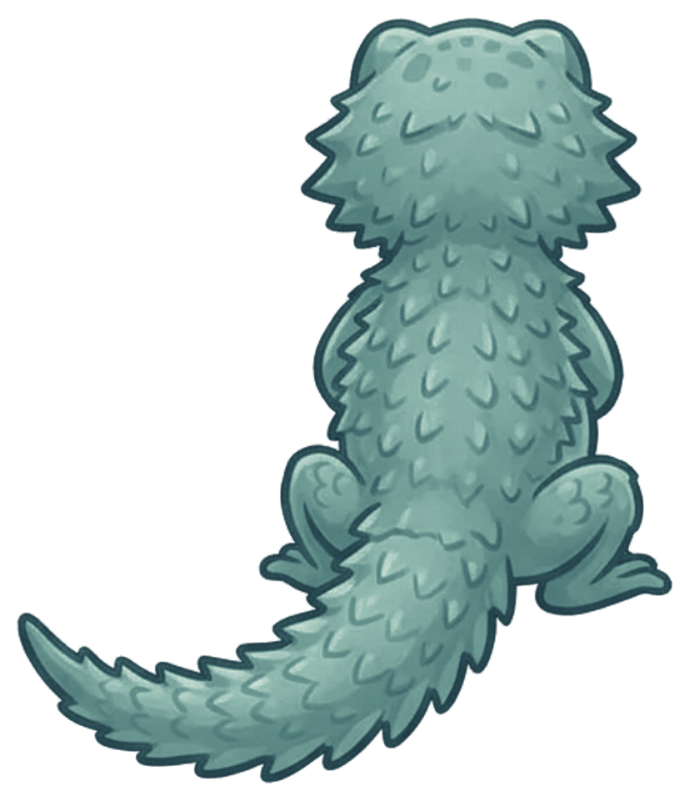
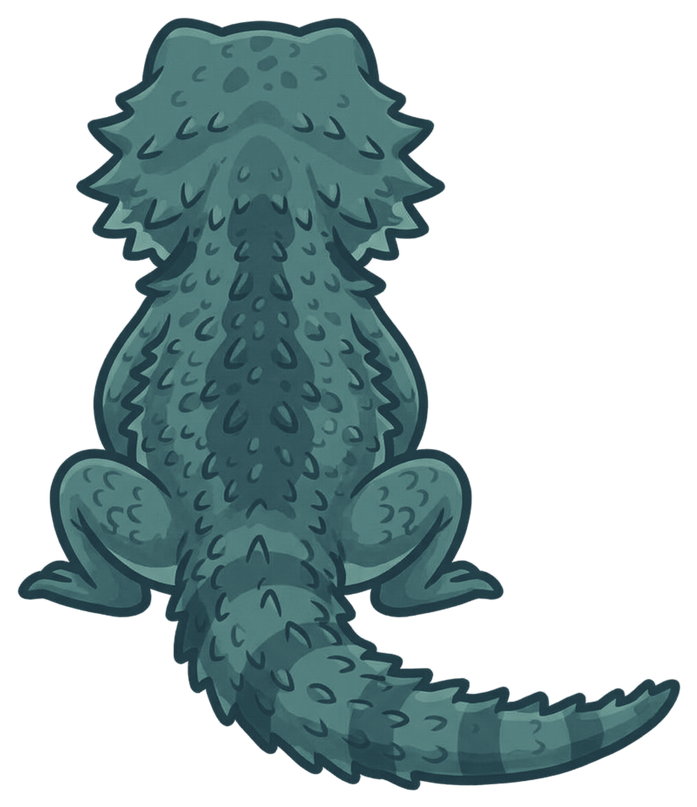
Background agents: work in progress
Claude-Session: https://claude.ai/code/session_017vcscXTweEdXk7zMTDrzTD

diff --git a/production/workspace/explained2/p4ep01v2/spr/manifest.js b/production/workspace/explained2/p4ep01v2/spr/manifest.js
@@ -1,1 +1,1 @@
-window.SPR={"pip_sit_closed": {"file": "spr/pip_sit_closed.png", "w": 900, "h": 672, "ax": 517.5, "ay": 639.8, "bh": 606.8}, "pip_sit_half": {"file": "spr/pip_sit_half.png", "w": 900, "h": 672, "ax": 517.5, "ay": 639.8, "bh": 606.8}, "pip_sit_wide": {"file": "spr/pip_sit_wide.png", "w": 900, "h": 672, "ax": 517.5, "ay": 639.8, "bh": 606.8}, "pip_sit_blink": {"file": "spr/pip_sit_blink.png", "w": 900, "h": 672, "ax": 517.5, "ay": 639.8, "bh": 606.8}, "pip_sit_half_blink": {"file": "spr/pip_sit_half_blink.png", "w": 900, "h": 672, "ax": 517.5, "ay": 639.8, "bh": 606.8}, "pip_sit_wide_blink": {"file": "spr/pip_sit_wide_blink.png", "w": 900, "h": 672, "ax": 517.5, "ay": 639.8, "bh": 606.8}, "basil_sit_closed": {"file": "spr/basil_sit_closed.png", "w": 768, "h": 768, "ax": 423.8, "ay": 683.2, "bh": 593.2}, "basil_sit_half": {"file": "spr/basil_sit_half.png", "w": 768, "h": 768, "ax": 423.8, "ay": 683.2, "bh": 593.2}, "basil_sit_wide": {"file": "spr/basil_sit_wide.png", "w": 768, "h": 768, "ax": 423.8, "ay": 683.2, "bh": 593.2}, "basil_sit_blink": {"file": "spr/basil_sit_blink.png", "w": 768, "h": 768, "ax": 423.8, "ay": 683.2, "bh": 593.2}, "basil_sit_half_blink": {"file": "spr/basil_sit_half_blink.png", "w": 768, "h": 768, "ax": 423.8, "ay": 683.2, "bh": 593.2}, "basil_sit_wide_blink": {"file": "spr/basil_sit_wide_blink.png", "w": 768, "h": 768, "ax": 423.8, "ay": 683.2, "bh": 593.2}, "momo_sit_closed": {"file": "spr/momo_sit_closed.png", "w": 768, "h": 768, "ax": 488.2, "ay": 633.8, "bh": 605.2}, "momo_sit_half": {"file": "spr/momo_sit_half.png", "w": 768, "h": 768, "ax": 488.2, "ay": 633.8, "bh": 605.2}, "momo_sit_wide": {"file": "spr/momo_sit_wide.png", "w": 768, "h": 768, "ax": 488.2, "ay": 633.8, "bh": 605.2}, "momo_sit_blink": {"file": "spr/momo_sit_blink.png", "w": 768, "h": 768, "ax": 488.2, "ay": 633.8, "bh": 605.2}, "momo_sit_half_blink": {"file": "spr/momo_sit_half_blink.png", "w": 768, "h": 768, "ax": 488.2, "ay": 633.8, "bh": 605.2}, "momo_sit_wide_blink": {"file": "spr/momo_sit_wide_blink.png", "w": 768, "h": 768, "ax": 488.2, "ay": 633.8, "bh": 605.2}, "pip_cheer": {"file": "spr/pip_cheer.png", "w": 648, "h": 643, "ax": 360.9, "ay": 624.8, "bh": 606.8}, "pip_oops": {"file": "spr/pip_oops.png", "w": 570, "h": 643, "ax": 349.6, "ay": 624.8, "bh": 606.8}, "pip_thinking": {"file": "spr/pip_thinking.png", "w": 558, "h": 643, "ax": 358.0, "ay": 624.8, "bh": 606.8}, "pip_surprised": {"file": "spr/pip_surprised.png", "w": 529, "h": 643, "ax": 337.1, "ay": 624.8, "bh": 606.8}, "pip_arms_crossed": {"file": "spr/pip_arms_crossed.png", "w": 558, "h": 643, "ax": 357.5, "ay": 624.8, "bh": 606.8}, "pip_waving": {"file": "spr/pip_waving.png", "w": 503, "h": 643, "ax": 249.1, "ay": 624.8, "bh": 606.8}, "pip_pointing": {"file": "spr/pip_pointing.png", "w": 586, "h": 642, "ax": 333.2, "ay": 624.8, "bh": 606.8}, "basil_oops": {"file": "spr/basil_oops.png", "w": 578, "h": 629, "ax": 337.0, "ay": 611.2, "bh": 593.2}, "basil_waving": {"file": "spr/basil_waving.png", "w": 628, "h": 629, "ax": 337.0, "ay": 611.2, "bh": 593.2}, "basil_thinking": {"file": "spr/basil_thinking.png", "w": 578, "h": 629, "ax": 343.7, "ay": 611.2, "bh": 593.2}, "basil_worried": {"file": "spr/basil_worried.png", "w": 578, "h": 629, "ax": 343.7, "ay": 611.2, "bh": 593.2}, "basil_surprised": {"file": "spr/basil_surprised.png", "w": 612, "h": 629, "ax": 338.5, "ay": 611.2, "bh": 593.2}, "basil_pointing": {"file": "spr/basil_pointing.png", "w": 626, "h": 629, "ax": 337.0, "ay": 611.2, "bh": 593.2}, "basil_cheer": {"file": "spr/basil_cheer.png", "w": 626, "h": 629, "ax": 257.0, "ay": 611.2, "bh": 593.2}, "basil_arms_crossed": {"file": "spr/basil_arms_crossed.png", "w": 578, "h": 629, "ax": 343.4, "ay": 611.2, "bh": 593.2}, "basil_laughing": {"file": "spr/basil_laughing.png", "w": 577, "h": 629, "ax": 344.0, "ay": 611.2, "bh": 593.2}, "momo_oops": {"file": "spr/momo_oops.png", "w": 495, "h": 641, "ax": 265.8, "ay": 623.2, "bh": 605.2}, "momo_waving": {"file": "spr/momo_waving.png", "w": 524, "h": 641, "ax": 264.9, "ay": 623.2, "bh": 605.2}, "momo_thinking": {"file": "spr/momo_thinking.png", "w": 474, "h": 641, "ax": 267.1, "ay": 623.2, "bh": 605.2}, "momo_surprised": {"file": "spr/momo_surprised.png", "w": 474, "h": 641, "ax": 267.1, "ay": 623.2, "bh": 605.2}, "momo_cheer": {"file": "spr/momo_cheer.png", "w": 521, "h": 641, "ax": 264.7, "ay": 623.2, "bh": 605.2}, "momo_pointing": {"file": "spr/momo_pointing.png", "w": 536, "h": 641, "ax": 264.7, "ay": 623.2, "bh": 605.2}, "momo_arms_crossed": {"file": "spr/momo_arms_crossed.png", "w": 499, "h": 641, "ax": 317.9, "ay": 623.2, "bh": 605.2}, "basil_back": {"file": "spr/basil_back.png", "w": 689, "h": 799, "ax": 471.7, "ay": 611.2, "bh": 593.2}};
+window.SPR={"pip_sit_closed": {"file": "spr/pip_sit_closed.png", "w": 900, "h": 672, "ax": 517.5, "ay": 639.8, "bh": 606.8}, "pip_sit_half": {"file": "spr/pip_sit_half.png", "w": 900, "h": 672, "ax": 517.5, "ay": 639.8, "bh": 606.8}, "pip_sit_wide": {"file": "spr/pip_sit_wide.png", "w": 900, "h": 672, "ax": 517.5, "ay": 639.8, "bh": 606.8}, "pip_sit_blink": {"file": "spr/pip_sit_blink.png", "w": 900, "h": 672, "ax": 517.5, "ay": 639.8, "bh": 606.8}, "pip_sit_half_blink": {"file": "spr/pip_sit_half_blink.png", "w": 900, "h": 672, "ax": 517.5, "ay": 639.8, "bh": 606.8}, "pip_sit_wide_blink": {"file": "spr/pip_sit_wide_blink.png", "w": 900, "h": 672, "ax": 517.5, "ay": 639.8, "bh": 606.8}, "basil_sit_closed": {"file": "spr/basil_sit_closed.png", "w": 768, "h": 768, "ax": 423.8, "ay": 683.2, "bh": 593.2}, "basil_sit_half": {"file": "spr/basil_sit_half.png", "w": 768, "h": 768, "ax": 423.8, "ay": 683.2, "bh": 593.2}, "basil_sit_wide": {"file": "spr/basil_sit_wide.png", "w": 768, "h": 768, "ax": 423.8, "ay": 683.2, "bh": 593.2}, "basil_sit_blink": {"file": "spr/basil_sit_blink.png", "w": 768, "h": 768, "ax": 423.8, "ay": 683.2, "bh": 593.2}, "basil_sit_half_blink": {"file": "spr/basil_sit_half_blink.png", "w": 768, "h": 768, "ax": 423.8, "ay": 683.2, "bh": 593.2}, "basil_sit_wide_blink": {"file": "spr/basil_sit_wide_blink.png", "w": 768, "h": 768, "ax": 423.8, "ay": 683.2, "bh": 593.2}, "momo_sit_closed": {"file": "spr/momo_sit_closed.png", "w": 768, "h": 768, "ax": 488.2, "ay": 633.8, "bh": 605.2}, "momo_sit_half": {"file": "spr/momo_sit_half.png", "w": 768, "h": 768, "ax": 488.2, "ay": 633.8, "bh": 605.2}, "momo_sit_wide": {"file": "spr/momo_sit_wide.png", "w": 768, "h": 768, "ax": 488.2, "ay": 633.8, "bh": 605.2}, "momo_sit_blink": {"file": "spr/momo_sit_blink.png", "w": 768, "h": 768, "ax": 488.2, "ay": 633.8, "bh": 605.2}, "momo_sit_half_blink": {"file": "spr/momo_sit_half_blink.png", "w": 768, "h": 768, "ax": 488.2, "ay": 633.8, "bh": 605.2}, "momo_sit_wide_blink": {"file": "spr/momo_sit_wide_blink.png", "w": 768, "h": 768, "ax": 488.2, "ay": 633.8, "bh": 605.2}, "pip_cheer": {"file": "spr/pip_cheer.png", "w": 648, "h": 643, "ax": 360.9, "ay": 624.8, "bh": 606.8}, "pip_oops": {"file": "spr/pip_oops.png", "w": 570, "h": 643, "ax": 349.6, "ay": 624.8, "bh": 606.8}, "pip_thinking": {"file": "spr/pip_thinking.png", "w": 558, "h": 643, "ax": 358.0, "ay": 624.8, "bh": 606.8}, "pip_surprised": {"file": "spr/pip_surprised.png", "w": 529, "h": 643, "ax": 337.1, "ay": 624.8, "bh": 606.8}, "pip_arms_crossed": {"file": "spr/pip_arms_crossed.png", "w": 558, "h": 643, "ax": 357.5, "ay": 624.8, "bh": 606.8}, "pip_waving": {"file": "spr/pip_waving.png", "w": 503, "h": 643, "ax": 249.1, "ay": 624.8, "bh": 606.8}, "pip_pointing": {"file": "spr/pip_pointing.png", "w": 586, "h": 642, "ax": 333.2, "ay": 624.8, "bh": 606.8}, "basil_oops": {"file": "spr/basil_oops.png", "w": 578, "h": 629, "ax": 337.0, "ay": 611.2, "bh": 593.2}, "basil_waving": {"file": "spr/basil_waving.png", "w": 628, "h": 629, "ax": 337.0, "ay": 611.2, "bh": 593.2}, "basil_thinking": {"file": "spr/basil_thinking.png", "w": 578, "h": 629, "ax": 343.7, "ay": 611.2, "bh": 593.2}, "basil_worried": {"file": "spr/basil_worried.png", "w": 578, "h": 629, "ax": 343.7, "ay": 611.2, "bh": 593.2}, "basil_surprised": {"file": "spr/basil_surprised.png", "w": 612, "h": 629, "ax": 338.5, "ay": 611.2, "bh": 593.2}, "basil_pointing": {"file": "spr/basil_pointing.png", "w": 626, "h": 629, "ax": 337.0, "ay": 611.2, "bh": 593.2}, "basil_cheer": {"file": "spr/basil_cheer.png", "w": 626, "h": 629, "ax": 257.0, "ay": 611.2, "bh": 593.2}, "basil_arms_crossed": {"file": "spr/basil_arms_crossed.png", "w": 578, "h": 629, "ax": 343.4, "ay": 611.2, "bh": 593.2}, "basil_laughing": {"file": "spr/basil_laughing.png", "w": 577, "h": 629, "ax": 344.0, "ay": 611.2, "bh": 593.2}, "momo_oops": {"file": "spr/momo_oops.png", "w": 495, "h": 641, "ax": 265.8, "ay": 623.2, "bh": 605.2}, "momo_waving": {"file": "spr/momo_waving.png", "w": 524, "h": 641, "ax": 264.9, "ay": 623.2, "bh": 605.2}, "momo_thinking": {"file": "spr/momo_thinking.png", "w": 474, "h": 641, "ax": 267.1, "ay": 623.2, "bh": 605.2}, "momo_surprised": {"file": "spr/momo_surprised.png", "w": 474, "h": 641, "ax": 267.1, "ay": 623.2, "bh": 605.2}, "momo_cheer": {"file": "spr/momo_cheer.png", "w": 521, "h": 641, "ax": 264.7, "ay": 623.2, "bh": 605.2}, "momo_pointing": {"file": "spr/momo_pointing.png", "w": 536, "h": 641, "ax": 264.7, "ay": 623.2, "bh": 605.2}, "momo_arms_crossed": {"file": "spr/momo_arms_crossed.png", "w": 499, "h": 641, "ax": 317.9, "ay": 623.2, "bh": 605.2}, "basil_back": {"file": "spr/basil_back.png", "w": 697, "h": 807, "ax": 264.8, "ay": 611.2, "bh": 593.2}};

diff --git a/production/workspace/explained2/p4ep01v2/p3.js b/production/workspace/explained2/p4ep01v2/p3.js
@@ -80,8 +80,8 @@ SC.shrink = (t, s) => { const a = LT("j902"), sh = a + (t - a) > a ? 0 : 0, S_ =
   for (let i = 0; i < 18; i++) { const an = rw + i * Math.PI / 9; wheel += `<path d="M0 0 L${n2(1880 * Math.cos(an))} ${n2(1880 * Math.sin(an))}" stroke="#8C96A2" stroke-width="16"/>`; }
   const world = `<rect x="-6000" y="-6000" width="14000" height="12000" fill="#1E2430"/><rect x="-6000" y="-6000" width="14000" height="12000" fill="url(#rimLight)" opacity=".5"/>` + OP(.85, wheel) + W_.s + x2youLink(t, you);
   const rider = (who, kk) => { const q = JLOOP.at(-kk * JW.pitch + S_ + JW.pitch / 2), [X, Y] = camPt(c, [q.x, q.y - 60]), left = q.seg === "bottom";
-    return bd2(who, X, Y, 170 * c[0], t, { in: s.t0 + .8 + kk * .15, pose: who === "basil" ? "back" : undefined, poses: who === "momo" ? [[0, "sit"], [MK("wave"), "waving"], [MK("wave") + 1.0, "sit"]] : [[0, who === "basil" ? "back" : "sit"]], flip: who === "pip" ? !left : left, look: left ? -6 : 6, tag: false, shadow: false, noreact: true }); };
-  const riders = c[0] > .5 ? rider("pip", 1.2) + rider("momo", 2.5) + rider("basil", 3.8) : "";
+    return bd2(who, X, Y, 170 * c[0], t, { in: s.t0 + .8 + kk * .15, out: MK("jtug") - .5 + kk * .05, pose: who === "basil" ? "back" : undefined, poses: who === "momo" ? [[0, "sit"], [MK("wave"), "waving"], [MK("wave") + 1.0, "sit"]] : [[0, who === "basil" ? "back" : "sit"]], flip: who === "pip" ? !left : left, look: left ? -6 : 6, tag: false, shadow: false, noreact: true }); };
+  const riders = c[0] > .5 ? rider("pip", 1.1) + rider("momo", 2.1) + rider("basil", 3.0) : "";
   const [yx, yy] = camPt(c, [you.x, you.y]);
   return OP(ramp(t, s.t0, 1.0), CAM(world, c[0], c[1], c[2]) + riders
     + youTag(t, s.t0 + .6, "You: one link of a bike chain") + TF(yx, yy - 120 * c[0] - 20, spring(t, s.t0 + .8, .45) * (zo > .3 ? 1.1 : .9), youPill(0, 0, 1))
@@ -192,7 +192,7 @@ function x2bellClose(t, t0, t1, ring, heart, on) { if (t < t0 - .25) return ""; 
 // Basil finishes it: SYSTEM (all three cheer: each learnt it); card 2 stamped READY TO RIDE!; then THE BATTLE CRY TURNED ROUND: all three
 // strike the heroic pose together, ALL PARTS, WORKING TOGETHER! (no wobble; the sting resolves this time)
 SC.system = (t, s) => { const c = camOn([960, 720], 1.0 + .08 * eio(clamp((t - s.t0) / 8)), 960, 600), tK = MK("kw_system"), tc = MK("cry4"), lit = ramp(t, LT("v1010") + .4, .5);
-  window._BUBAT = { pip: [480, 330], momo: [1420, 330], basil: [820, 300] };
+  window._BUBAT = { pip: [480, 330], momo: [1420, 330], basil: [1180, 420] };
   x2said("v1013");
   return x2place("vdv2", TF(1130, 990, .74, bikeP4(t, { chain: 1, brakes: 1, bell: 1, crank: .6, lit: lit * .8 })), c)
     + x2bc(c, "pip", 360, 1076, 380, t, { in: s.t0 - .5, poses: [[0, "sit"], [LE("v1010") + .05, "pointing"], [tK + .05, "cheer"], [tK + 2.0, "sit"], [tc - .05, "hero/arms_crossed"]], look: 8 })
@@ -249,7 +249,7 @@ const treeCam2 = (t) => camMix(camOn([960, 860], 1.18, 960, 700), camOn([960, 56
 SC.tree = (t, s) => { const c = treeCam2(t), tl = (mk, txt, x, y, px, py) => t >= MK(mk) - .1 ? OP(spring(t, MK(mk) - .1, .4), plabel(x, y, txt, ...camPt(c, [px, py]), 44, "#fff")) : "";
   window._BUBAT = { pip: [1240, 460] };
   return x2place("rtp4", TF(1110, 1050, .55, bikeP4(t, { chain: 1, crank: .6, sh: 0, brakes: 1, bell: 1 })), c)
-    + x2bc(c, "pip", 1450, 1062, 380, t, { in: s.t0 - .5, flip: true, poses: [[0, "sit"], [LT("e1103") + .3, "pointing"], [LE("e1103") + .1, "sit"]], look: -4 }) + x2bc(c, "momo", 380, 1062, 340, t, { in: s.t0 - .5, ...watchO(380, 960), poses: [[0, "sit"]] }) + x2bc(c, "basil", 1740, 1062, 380, t, { in: s.t0 - .5, ...watchO(1740, 960), poses: [[0, "sit"]], ...x2grease(t) })
+    + x2bc(c, "pip", 1400, 1062, 380, t, { in: s.t0 - .5, flip: true, poses: [[0, "sit"], [LT("e1103") + .3, "pointing"], [LE("e1103") + .1, "sit"]], look: -4 }) + x2bc(c, "momo", 380, 1062, 340, t, { in: s.t0 - .5, ...watchO(380, 960), poses: [[0, "sit"]] }) + x2bc(c, "basil", 1800, 1062, 380, t, { in: s.t0 - .5, ...watchO(1800, 960), poses: [[0, "sit"]], ...x2grease(t) })
     + tl("rts", "roots", 640, 780, 830, 785) + tl("stm", "stem (trunk)", 640, 560, 935, 560) + tl("lv", "leaves", 1240, 250, 1260, 230) + x2HUD(t); };
 
 /* ================================================================ WORDS · THE WORDS THAT EARN MARKS ================================================================ */

diff --git a/production/workspace/explained2/p4ep01v2/p2.js b/production/workspace/explained2/p4ep01v2/p2.js
@@ -75,7 +75,7 @@ function x2bellFront(t, s) { const tB = MK("flap") + 1.0, c = camMix(camOn([1000
     + x2bc(c, "basil", ...B, t, { in: tB - .02, noStay: true, poses: [[0, "shocked/surprised"], [LT("b407") + .4, "deadpan"]], look: 2, noreact: true })
     + pgOn("basil", 70, -110, .85, true, 1) + pgOn("basil", -150, -40, .8, false, 2) + helmPig
     + comicWord(t, coo, ...camPt(c, [B[0] + 40, B[1] - 520]), "coo.", { size: 40, tiny: true, col: "#fff", d: .7 })
-    + (true ? x2bc(c, "momo", jog(1600, 1420, LT("b407") - .2), 1066, 360, t, { in: tB - 3, noStay: true, flip: true, poses: [[0, "sit"], [LT("b407") + .9, "laugh/cheer"], [LE("b407") + .2, "sit"]], look: -6 }) : "")
+    + (true ? x2bc(c, "momo", jog(1520, 1400, LT("b407") - .2), 1066, 360, t, { in: tB - 3, noStay: true, flip: true, poses: [[0, "sit"], [LT("b407") + .9, "laugh/cheer"], [LE("b407") + .2, "sit"]], look: -6 }) : "")
     + (true ? x2bc(c, "pip", jog(1880, 1780, LT("b407")), 1066, 350, t, { in: tB - 3, noStay: true, flip: true, poses: [[0, "sit"], [LT("b408") + .5, "embarrassed/oops"], [LE("b408") + .4, "sit"]], look: -6 }) : "")
     + faceCam("basil", t, tB + .05, tB + 1.5, 1520, 300, 150, [[0, "shocked/surprised"]], { flip: true, noreact: true })
     + x2lab(t, MK("warn"), s.t1, c, "bell: warns people you are coming", 1380, 200, BELC[0] + BLK * (BK.HT[0] - 24), BELC[1] + BLK * (BK.HT[1] - 66), 38)
@@ -223,11 +223,11 @@ function x2runD(t, s) { const tD = LT("k611") - .15, tP = MK("push"), tBk = MK("
   const front = CAM(TF(boxX, CB.box[1], 1, iceBoxFrontV2(t)), c[0], c[1], c[2]);
   const splashFx = inBox && t < tSp + 1.0 ? [...Array(12)].map((_, i) => { const v = clamp((t - tSp) / .8), an = -Math.PI / 2 + (i - 5.5) * .25, r = 260 * v; return `<rect x="-12" y="-10" width="24" height="20" rx="5" fill="#fff" stroke="#9FD0EA" stroke-width="2.5" transform="translate(${n2(CB.box[0] + Math.cos(an) * r)} ${n2(880 + Math.sin(an) * r + 300 * v * v)}) rotate(${n2(i * 40 + v * 200)})" opacity="${n2(1 - v)}"/>`; }).join("") : "";
   // Momo and Pip slide the box in (from the right), then stand by it
-  const mX = t < tP + .4 ? lerp(1700, CB.box[0] + 300, eio(clamp((t - tD) / 1.0))) : CB.box[0] + 300, pX = lerp(1900, CB.box[0] + 580, eio(clamp((t - tD - .1) / 1.1)));
+  const mX = t < tP + .4 ? lerp(1700, CB.box[0] + 300, eio(clamp((t - tD) / 1.0))) : CB.box[0] + 300, pX = lerp(1920, CB.box[0] + 625, eio(clamp((t - tD - .1) / 1.1)));
   window._BUBAT = { momo: [1400, 330], pip: [1500, 300], basil: [1180, 320] };
   return CAM(bg("vdv2") + set + bike, c[0], c[1], c[2]) + basil + can + front + splashFx
     + x2bc(c, "momo", mX, 1066, 380, t, { in: tD - 3, noStay: true, flip: true, poses: [[0, "pointing"], [tP + .4, "sit"], [MK("cold") - .2, "sit"]], look: -10 })
-    + x2bc(c, "pip", pX, 1066, 340, t, { in: tD - 3, noStay: true, flip: true, poses: [[0, "panic/surprised"], [tSp + .4, "sit"], [LT("k613") - .1, "sit"], [LE("k613") + .05, "angry/pointing"]], look: t >= LT("k613") - .2 ? 0 : -8 })
+    + x2bc(c, "pip", pX, 1066, 330, t, { in: tD - 3, noStay: true, flip: true, poses: [[0, "panic/surprised"], [tSp + .4, "sit"], [LT("k613") - .1, "sit"], [LE("k613") + .05, "angry/pointing"]], look: t >= LT("k613") - .2 ? 0 : -8 })
     + (inBox && t > LT("k612") + 1.2 && t < LE("k612") ? x2held(c, "momo", CB.box[0] + 300, 1066, 380, true, `<g transform="rotate(10)"><rect x="-22" y="-34" width="44" height="64" rx="8" fill="#E5484D" stroke="#2B2F36" stroke-width="4"/><rect x="-22" y="-34" width="44" height="10" rx="4" fill="#C9D1DA"/></g>`, -20, 10) : "")
     + comicWord(t, tBk, CB.box[0] - 160, 470, "BONK!", { size: 84, d: .7 }) + comicWord(t, tSp, CB.box[0] + 60, 400, "KER-SPLOOSH!", { size: 92, d: 1.0 }) + comicWord(t, tSp + 1.1, CB.box[0] + 160, 820, "plip.", { size: 40, tiny: true, col: "#BFE6F7", d: .8 })
     + x2lab(t, MK("brkl"), MK("cold") - .3, c, "brakes: help the bike slow down and stop safely", 760, 300, CB.bike[0] + CB.bk * (BK.HT[0] - 76), CB.bike[1] + CB.bk * (BK.HT[1] - 34), 36)

diff --git a/production/workspace/explained2/p4ep01v2/p1.js b/production/workspace/explained2/p4ep01v2/p1.js
@@ -166,12 +166,13 @@ SC.lock = (t, s) => { const r0 = MK("ring0_fix"), bell = MK("bell_fix"), D = Mat
    battle-cry pose facing the wrong way, so Momo's and Pip's paws meet empty air */
 SC.picks = (t, s) => { window._BUBAT = { pip: [960, 560], basil: [560, 560], momo: [1360, 560] }; const up = eio((t - s.t0) / .6), y = lerp(850, 300, up), k = lerp(.42, .48, up), tp = s.t0 + .3;
   const hf = LT("p208") + .3, ms = MK("miss1");
-  return bg("stage") + x2cards(t, y, k, { glow: (n) => t >= tp + (n - 1) * .25 ? .6 : 0 })
+  const cardsUp = x2cards(t, y, k, { glow: (n) => t >= tp + (n - 1) * .25 ? .6 : 0 });   // drawn over the buddies while they rise past them (EP27's rule)
+  return bg("stage") + (up >= 1 ? cardsUp : "")
     + x2bd("basil", CX3[0], 1076, 360, t, { in: s.t0 - .5, flip: true, poses: [[s.t0, "sit"], [tp, "hero/arms_crossed"], [LE("p209") + .1, "sit"]], look: -6, noreact: true })
     + windV2(t, CX3[0] - 40, 860, 300, ss(tp, tp + .2, t) * (1 - ss(ms + 1.2, ms + 1.5, t)))
     + x2bd("pip", CX3[1], 1076, 360, t, { in: s.t0 - .5, poses: [[s.t0, "sit"], [tp + .25, "proud/arms_crossed"], [hf, "hi5/cheer"], [ms + .35, "embarrassed/oops"], [LT("p209") + .4, "sit"]], look: t > hf && t < ms + .3 ? -10 : 0, flip: t > hf && t < ms + .35 })
     + (t < hf || t > ms + .3 ? x2held([1, 960, 540], "pip", CX3[1], 1076, 360, false, TF(0, 0, .45, clipboardV2(t, {})), -40, 30) : "")
     + x2bd("momo", CX3[2], 1076, 360, t, { in: s.t0 - .5, flip: true, poses: [[s.t0, "sit"], [tp + .5, "pointing"], [LT("p208") - .1, "sit"], [hf, "hi5/cheer"], [ms + .35, "unimpressed"], [LT("p209") + .4, "sit"]], look: t > hf && t < ms + .3 ? -12 : -3 })
     + x2whiff(t, ms, 760, 640) + (t >= ms - .05 && t < ms + .6 ? comicWord(t, ms + .4, 760, 520, "bwop.", { size: 40, tiny: true, col: "#fff", d: .6 }) : "")
-    + x2rewind(t, MK("rew") - .3, s.t1 - MK("rew") + .3, "10 MINUTES EARLIER")
+    + (up < 1 ? cardsUp : "") + x2rewind(t, MK("rew") - .3, s.t1 - MK("rew") + .3, "10 MINUTES EARLIER")
     + (t >= s.t0 ? x2raceClock(t, x2secs(t), 1) : "") + x2HUD(t); };

diff --git a/production/workspace/explained2/p4ep01v2/new_poses.py b/production/workspace/explained2/p4ep01v2/new_poses.py
@@ -2,8 +2,8 @@
 For every name in NEW (script section 6), if the painting exists in ../characters/sprites/poses/ as <who>_<pose>.png (or the v2 cast's
 <who>_v2_<pose>.png), it is scaled like every other pose (x .75, prep_sprites.py) into spr/<who>_<pose>.png and added to spr/manifest.js
 (anchor from poses.json when the teacher's pose tool listed it, else the middle of the painting's lowest opaque row). The scenes ask for
-these names; lib.js NEWPOSE_FALLBACK shows today's painting until the new one is here. Also writes spr/basil_back.png: Basil's back view
-(the teacher's painting, 22 Nov) recoloured from the old grey to the v2 teal (a luminance map sampled on basil_v2), for the rear-view rides.
+these names; lib.js NEWPOSE_FALLBACK shows today's painting until the new one is here. Also copies the teacher's coloured back views (26 Nov)
+into spr/<who>_back.png (Basil's is used for the rear-view rides).
 Run: python3 new_poses.py   (re-run when new paintings arrive; then re-render)"""
 import os, json, re
 import numpy as np
@@ -12,6 +12,35 @@ H = os.path.dirname(os.path.abspath(__file__)); S = f"{H}/../characters/sprites"
 NEW = ["pip_embarrassed", "pip_panic", "pip_dizzy", "pip_proud", "pip_angry", "pip_ride", "momo_facepalm", "momo_laugh", "momo_unimpressed",
        "momo_horrified", "basil_deadpan", "basil_shocked", "basil_laugh", "basil_shrug", "basil_hero"]
 src = open(f"{O}/manifest.js").read(); M = json.loads(src[src.index("=") + 1: src.rindex(";")])
+BH = {w: M[f"{w}_sit_closed"]["bh"] for w in ("pip", "basil", "momo")}
+PJ = json.load(open(f"{S}/poses/poses.json")) if os.path.exists(f"{S}/poses/poses.json") else {}
+SET = {"pip": ["pip"], "basil": ["basil_v2", "basil"], "momo": ["momo_v2", "momo"]}
+found = []
+for name in NEW:
+    who, pose = name.split("_", 1); f = None; anc = None
+    for st in SET[who]:
+        for cand in (f"{S}/poses/{st}_{pose}.png", f"{S}/poses/{who}_{pose}.png"):
+            if os.path.exists(cand): f = cand; anc = (PJ.get(st, {}).get(pose) or {}).get("anchor"); break
+        if f: break
+    if not f: M.pop(name, None); continue
+    im = Image.open(f).convert("RGBA"); a = np.array(im)[..., 3]
+    if not anc:
+        ys = np.where(a.max(1) > 128)[0]; yb = ys[-1]; xs = np.where(a[yb - 6: yb + 1].max(0) > 128)[0]; anc = [float(xs.mean()), float(yb)]
+    im2 = im.resize((round(im.width * K), round(im.height * K)), Image.LANCZOS); im2.save(f"{O}/{name}.png")
+    M[name] = dict(file=f"spr/{name}.png", w=im2.width, h=im2.height, ax=round(anc[0] * K, 1), ay=round(anc[1] * K, 1), bh=BH[who]); found.append(name)
+# the back views (teacher, 26 Nov 2026: the NEW coloured paintings; the old grey ones are *_back_grey.png): copied as they are, the anchor
+# from poses.json (the v2 cast's own entry first). Only Basil's is used in P4 EP1 v2 (riding away, from behind).
+for who, sets in (("basil", ("basil_v2", "basil")), ("momo", ("momo_v2", "momo")), ("pip", ("pip",))):
+    for st in sets:
+        f = f"{S}/poses/{st}_back.png"
+        if not os.path.exists(f): continue
+        anc = (PJ.get(st, {}).get("back") or {}).get("anchor")
+        im = Image.open(f).convert("RGBA")
+        if not anc:
+            a_ = np.array(im)[..., 3]; ys = np.where(a_.max(1) > 128)[0]; yb = ys[-1]; xs = np.where(a_[yb - 6: yb + 1].max(0) > 128)[0]; anc = [float(xs.mean()), float(yb)]
+        im2 = im.resize((round(im.width * K), round(im.height * K)), Image.LANCZOS); im2.save(f"{O}/{who}_back.png")
+        M[f"{who}_back"] = dict(file=f"spr/{who}_back.png", w=im2.width, h=im2.height, ax=round(anc[0] * K, 1), ay=round(anc[1] * K, 1), bh=BH[who]); break
+open(f"{O}/manifest.js").read(); M = json.loads(src[src.index("=") + 1: src.rindex(";")])
 BH = {w: M[f"{w}_sit_closed"]["bh"] for w in ("pip", "basil", "momo")}
 PJ = json.load(open(f"{S}/poses/poses.json")) if os.path.exists(f"{S}/poses/poses.json") else {}
 SET = {"pip": ["pip"], "basil": ["basil_v2", "basil"], "momo": ["momo_v2", "momo"]}
@@ -39,4 +68,4 @@ if os.path.exists(b):
     out = out.resize((round(out.width * K), round(out.height * K)), Image.LANCZOS); out.save(f"{O}/basil_back.png")
     M["basil_back"] = dict(file="spr/basil_back.png", w=out.width, h=out.height, ax=round(anc[0] * K, 1), ay=round(anc[1] * K, 1), bh=BH["basil"])
 open(f"{O}/manifest.js", "w").write("window.SPR=" + json.dumps(M) + ";")
-print("new paintings found:", found or "none yet", "| basil_back:", "basil_back" in M)
+print("new paintings found:", found or "none yet", "| back views:", [k for k in M if k.endswith("_back")])

diff --git a/production/workspace/sau/ep13/make_segments.py b/production/workspace/sau/ep13/make_segments.py
@@ -28,7 +28,7 @@ SEG = [
   {"id": "far", "scene": "globeFly", "text": "The answer starts thousands of kilometres away, over the Pacific Ocean. Let's shrink down and go there."},
   {"id": "ready", "scene": "countdown", "excited": True, "text": "Are you ready? Three! Two! One! Go!", "added": "countdown (series standard, as EP11)"},
   # 0:40 You are the trade wind (BE THE THING, soft, calm pad)
-  {"id": "w0", "scene": "povShrink", "silent": 3.2, "sfx": [["pad_wonder", 0], ["space_warp", 0.2], ["wind", 1.0], ["sparkle", 2.4]]},
+  {"id": "w0", "scene": "povShrink", "silent": 3.2, "sfx": [["space_warp", 0.2], ["wind", 1.0], ["sparkle", 2.4]]},
   {"id": "wind1", "scene": "povWind", "soft": True, "text": "You are a gust of wind. You blow over the Pacific Ocean from east to west, day after day. People call you the trade wind.", "sfx": [["wind", 0], ["sea_wash", 1.5]]},
   {"id": "wind2", "scene": "povWarm", "soft": True, "text": "Below you, the sea is warm. You push the warm top layer of water along with you, west, towards Singapore.", "sfx": [["sea_wash", 0], ["wind", 2.5]]},
   {"id": "wind3", "scene": "povCloud", "soft": True, "text": "The warm water gains heat from the Sun. Some of it evaporates into water vapour and rises with you. High up, the water vapour loses heat, condenses into tiny water droplets and forms clouds.", "sfx": [["sparkle", 2.0], ["wind", 5.0]]},
@@ -71,7 +71,7 @@ E = {x["id"]: x for x in SEG}
 def ep(i, **kw): d = dict(E[i]); d.pop("hold", None); d.update(kw); return d
 WATCH = {"id": "watch", "scene": "bye", "text": "Watch the full episode on TheOneApp, Explored.", "hold": 0.3}
 S1 = [{"id": "q1", "scene": "qcard", "text": "Why is Singapore so hot and dry this year?", "new": True},
-      dict(E["w0"], silent=2.6, sfx=[["pad_wonder", 0], ["space_warp", 0.1], ["wind", 0.8], ["sparkle", 2.0]]),
+      dict(E["w0"], silent=2.6, sfx=[["space_warp", 0.1], ["wind", 0.8], ["sparkle", 2.0]]),
       ep("wind1"), ep("wind5"), ep("pip2"), ep("wind6", hold=0.5), WATCH, E["nyk"]]
 S2 = [{"id": "q2", "scene": "qcard", "text": "How can two degrees change the weather in India and the USA?", "new": True},
       ep("super"), ep("momo2"), ep("super2", hold=0.3), ep("india"), ep("usa", hold=0.3), WATCH, E["nyk"]]

diff --git a/production/workspace/explained2/p4ep01v2/STATE.md b/production/workspace/explained2/p4ep01v2/STATE.md
@@ -28,7 +28,8 @@ flag, ribbon, comic-book sound words, battle-cry letters, the sets vdv2 / rampv2
   four-pictures fix became the five pictures (PEDALS → FRONT GEAR → CHAIN → BACK GEAR → BACK WHEEL) with centred icons. Riders sit on the
   SADDLE only: head-on with a cardboard race plate (it hides Basil's sitting legs), from behind (his back view on the saddle), the
   snail-cam (only his tail shows), or riderless. Uncle Lim is code-drawn, so his feet are on the pedals.
-- **Basil's back view**: the teacher's grey `poses/basil_back.png` recoloured to the v2 teal by `new_poses.py` (no v2 back painting yet).
+- **Basil's back view**: the teacher's NEW coloured back painting (26 Nov, `poses/basil_v2_back.png`), copied by `new_poses.py` (the ride-off,
+  the victory lap, the journey's last rider). Pip's and Momo's coloured backs exist too and are unused here.
 
 ## New emotion paintings: switchable by name (lib.js resolvePose / NEWPOSE_FALLBACK)
 The scenes ask for `pip_embarrassed, pip_panic, pip_proud, pip_angry, pip_dizzy, pip_ride, momo_facepalm, momo_laugh, momo_unimpressed,
@@ -63,4 +64,12 @@ with every line kept the series pace puts it at about 7:10 (the gaps were tighte
 `upload.json` (key `explained-p4-ep01-v2`; replaces FOvUezOZJbo, retire_old; playlists PLK9BW3T6kXx4 and PLPfEuT7l4KjI, both `after`
 FOvUezOZJbo), `thumb.jpg` (LOST TO A SNAIL?!) + `qa/thumb_320.jpg`, chapters `production/youtube/chapters_p3.json` key `P4EP01V2`,
 `app_moments.json` (videos.js P4 entry no. 1, 9 moments), `p4ep01v2.srt`. Heart mystery hint #2 logged in SecondBrain
-`Plans/videos/P4-new-direction.md` (5:28.3, 6 frames).
+`Plans/videos/P4-new-direction.md` (5:28.37-5:28.53, frames 9851-9856 = 6 frames, checked in the video).
+
+## Render (26 Nov 2026)
+One full render of the final code (after the review fixes: the stop-3 / runaway bike without its chain, the cold open's labels clear of the
+battle cry, the SYSTEM bubble clear of the key word, spacing at the bell / ice box / rain tree, the journey riders leaving before the
+pull-out, the cards rising in front at the picks, the coloured back view). `p4ep01v2.mp4`: see the numbers in the main report / finish.log
+(`out/finish.log`): 1920x1080, 30 fps, 12910 frames = 7:10.3, decode 0 errors, -16.0 LUFS, true peak -1.9 dBTP. `sheet.png` (30 stills),
+`p4ep01v2.srt`, `qa/key_frames.jpg`, `qa/review_opening_0-30.mp4` and `qa/review_runaway.mp4` (960 px, with sound, 30 s each: not committed),
+`thumb.jpg` + `qa/thumb_320.jpg`. Intermediates (chunks, the silent video) deleted; `out/mix_p1.wav` kept for a splice.
